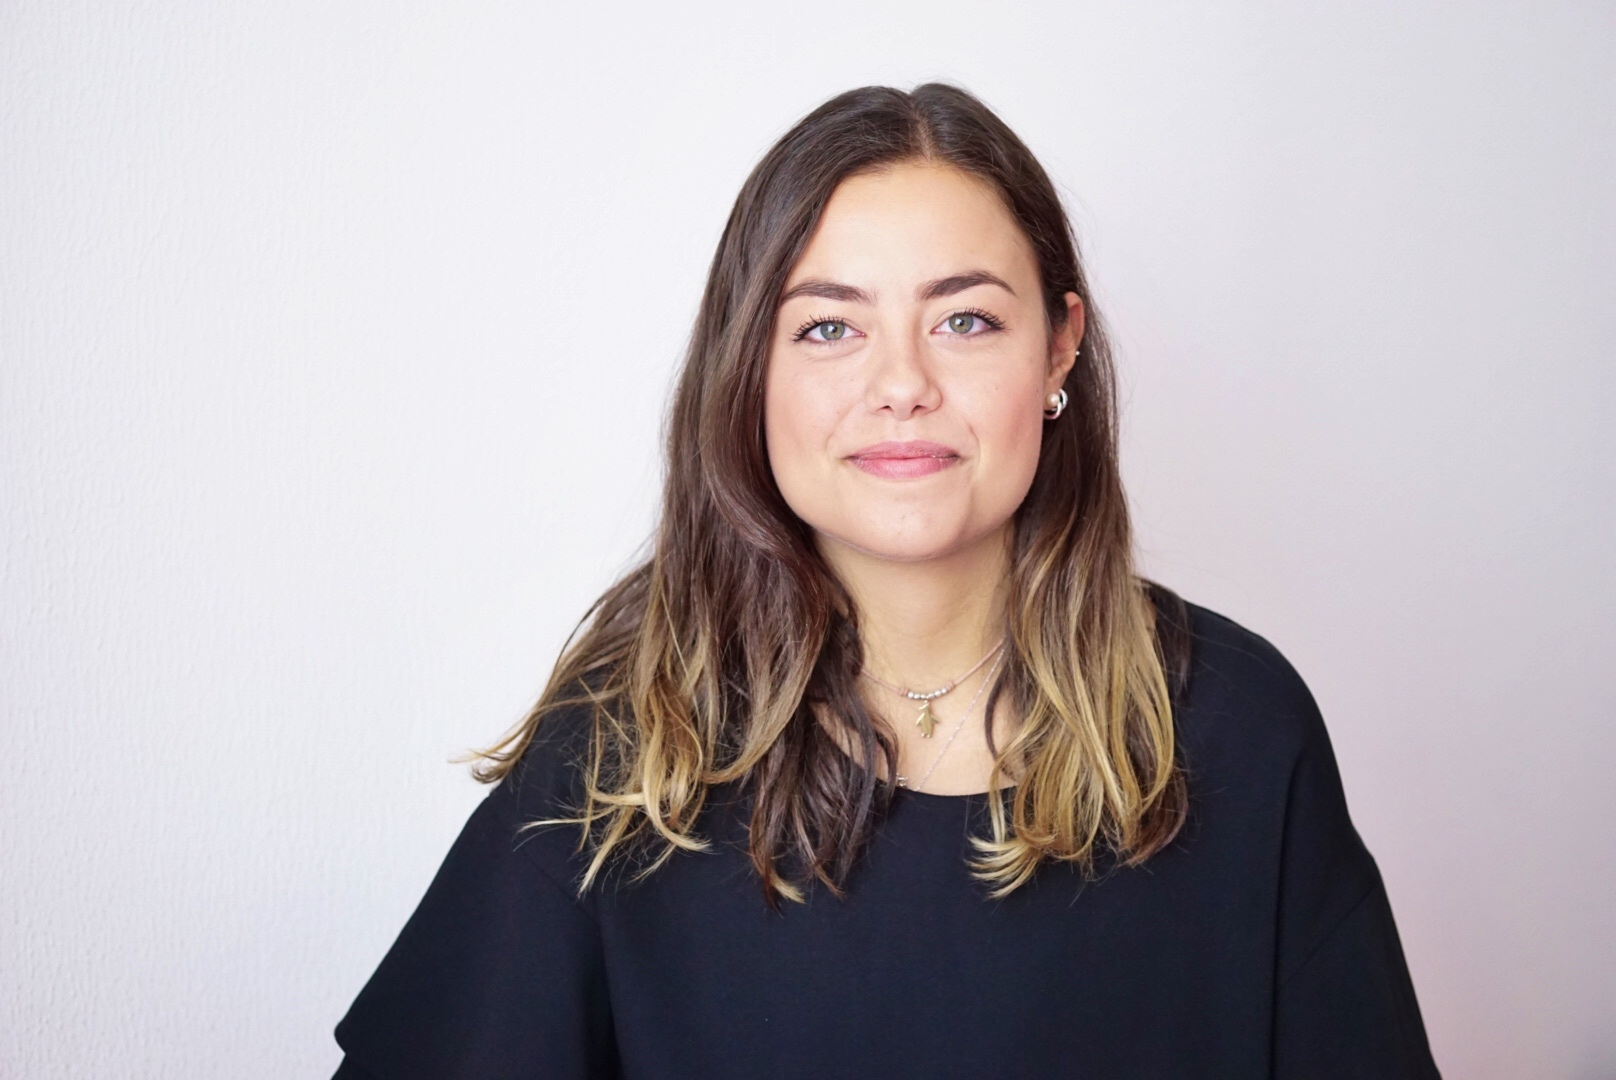
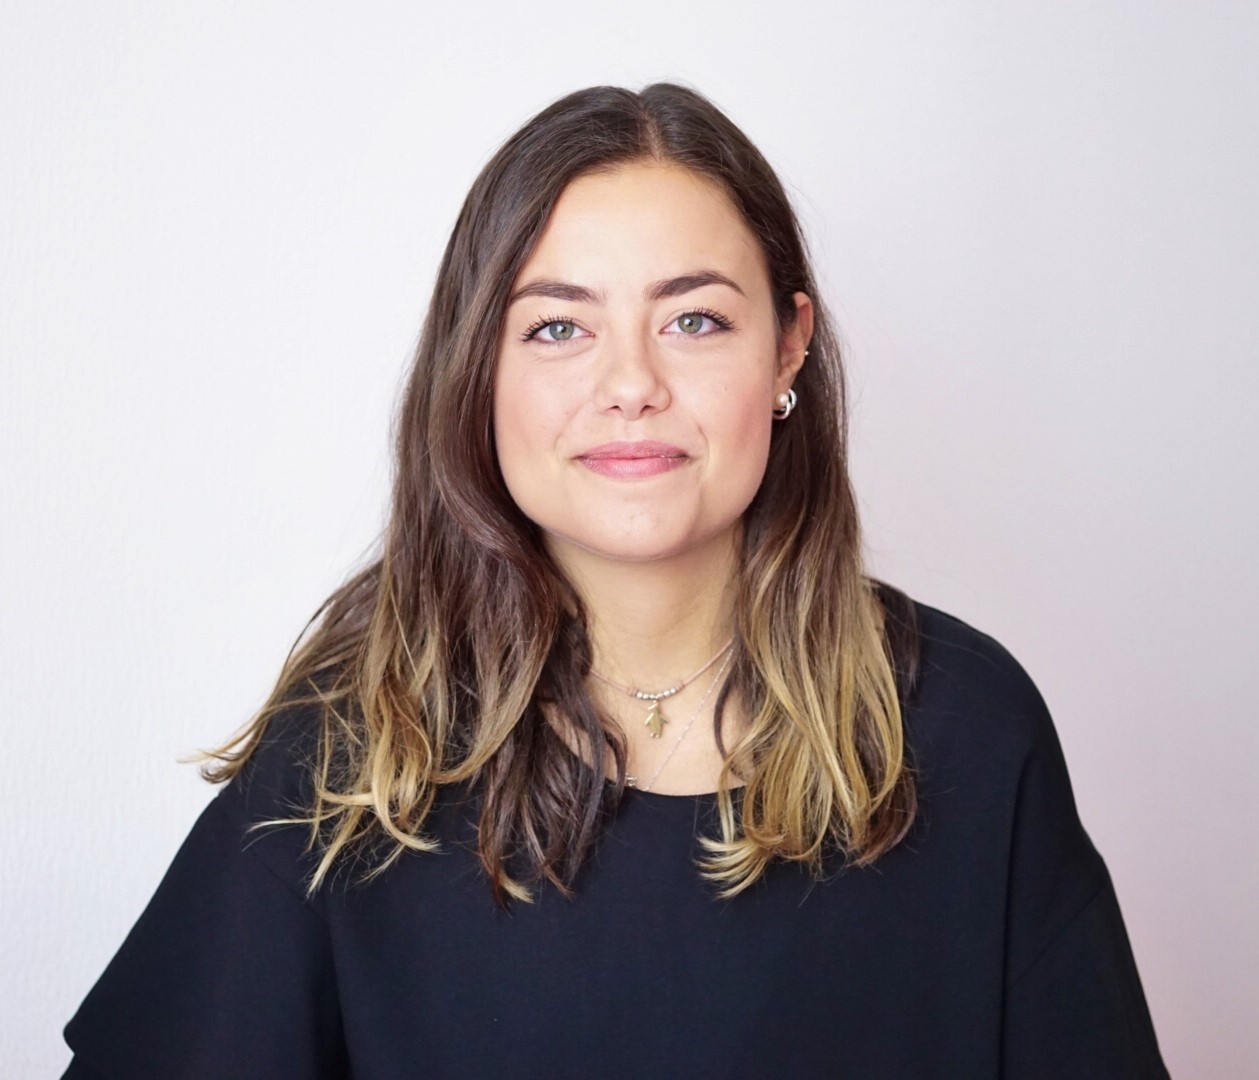
Adding resume and passions

diff --git a/about/styles.css b/about/styles.css
@@ -19,7 +19,7 @@
 body {
   font-family: "Handlee", cursive;
   background-color: #000000;
-  margin: 30;
+  margin: 0;
   text-align: left;
   padding: 10px;
 }
@@ -54,17 +54,31 @@ main {
   padding: 20px;
   color: #b4bec0;
   font-size: 20px;
+  margin-bottom: 20%;
+}
+
+a.button1{
+  text-decoration: none;
+}
+a.button1:visited {
+  color: inherit;
+}
+a.button2:visited {
+  color: inherit;
+}
+a.button2{
+  text-decoration: none;
 }
 
 footer {
   font-family: "Handlee", cursive;
   background-color: #000000;
   color: #b4bec0;
-  text-align: right;
-  padding: 0px;
+  text-align: center;
+  margin: 0;
   position: fixed;
   bottom: 0;
-  width: 95%;
+  width: 100%;
   font-size: 10px;
 }
 
@@ -73,10 +87,11 @@ footer {
   background-color: #000000;
   color: #b4bec0;
   text-align: right;
-  padding: 25px;
+  padding: 30px;
+  padding-left: 10px;
   position: fixed;
   bottom: 0;
-  width: 90%;
+  width: 95%;
   font-size: 10px;
 }
 
@@ -89,13 +104,96 @@ footer {
 
 .GitHub-icon{
   border: 1px solid #b4bec0;
-  border-radius: 3px;
+  border-radius: 23px;
   width: 30px;
 }
 
 .myphoto{
   border-radius: 3px;
-  width: 600px;
+  width: 400px;
   float: left; 
   margin-right: 10px;
 }
+
+.button1 {
+  font-family: "Handlee", cursive;
+  display: inline-block;
+  border-radius: 4px;
+  background-color: #b4bec0;
+  border: 2px solid #68adbb;
+  color: #000000;
+  text-align: center;
+  font-size: 15px;
+  padding: 5px;
+  width: 130px;
+  transition: all 0.5s;
+  cursor: pointer;
+  margin: 5px;
+}
+
+.button1 span {
+  cursor: pointer;
+  display: inline-block;
+  position: relative;
+  transition: 0.5s;
+}
+
+.button1 span:after {
+  content: '\00bb';
+  position: absolute;
+  opacity: 0;
+  top: 0;
+  right: -20px;
+  transition: 0.5s;
+}
+
+.button1:hover span {
+  padding-right: 25px;
+}
+
+.button1:hover span:after {
+  opacity: 1;
+  right: 0;
+}
+
+.button2 {
+  font-family: "Handlee", cursive;
+  display: inline-block;
+  border-radius: 4px;
+  background-color: #68adbb;
+  border: 2px solid #b4bec0;
+  color: #000000;
+  text-align: center;
+  font-size: 15px;
+  padding: 5px;
+  width: 130px;
+  transition: all 0.5s;
+  cursor: pointer;
+  margin: 5px;
+}
+
+.button2 span {
+  cursor: pointer;
+  display: inline-block;
+  position: relative;
+  transition: 0.5s;
+}
+
+.button2 span:after {
+  content: '\00bb';
+  position: absolute;
+  opacity: 0;
+  top: 0;
+  right: -20px;
+  transition: 0.5s;
+}
+
+.button2:hover span {
+  padding-right: 25px;
+}
+
+.button2:hover span:after {
+  opacity: 1;
+  right: 0;
+}
+

diff --git a/about/index.html b/about/index.html
@@ -21,9 +21,7 @@
     <main>
       <section>
         <h2>About Me</h2>
-        <a href="https://www.linkedin.com/in/margherita-lai-02518716b/" target="_blank">
-          <img class="myphoto" src="myphoto.jpg" alt="myphoto">
-        </a>
+        <img class="myphoto" src="myphoto.jpg" alt="myphoto">
         <p>Hi there! I am Margherita and I am a software developer. I chose Biomedical Engineering and Neuroengineering as my
             degree courses, because I've always been very interested in every aspect of the human brain. I'm fascinated by its incredible
             complexity. This course of study opened the doors to programming which I immediately fell in love with.
@@ -34,6 +32,17 @@
             tomorrow.
         </p>
       </section>
+      <button class="button1"><a href="https://drive.google.com/file/d/1WrcP1NzFXeVR26uamuvdwYwUDe8TWLBb/view?usp=sharing" target="_blank"><span>COMPLETE RESUMÈ</span></a></button>
+      <button class="button2"><a href="https://drive.google.com/file/d/1ixrTm4rlWRl6smY_YLZuD2peEUGQWFQ_/view?usp=drive_link" target="_blank"><span>SHORT RESUMÈ</span></a></button>
+      <h3><br>Passions</h3>
+      <p>Pass over each image to know more about my passions:
+      <p><img class="Basket" src="basketball-icon.png" alt="Basket">
+        <img class="Climbing" src="climbing-icon.png" alt="Climbing">
+        <img class="Photo" src="photography-icon.png" alt="Photo">
+        <img class="Paddle" src="paddle-icon.png" alt="Paddle">
+        <img class="Dog" src="dog-icon.png" alt="Dog">
+      </p>
+      </p>
     </main>
     <footer class="footer1"><p><a href="https://www.linkedin.com/in/margherita-lai-02518716b/" target="_blank">
       <img class="LinkedIn-icon" src="linkedin-icon.png" alt="LinkedIn-icon">

diff --git a/styles.css b/styles.css
@@ -56,29 +56,31 @@ main {
     font-size: 35px;
     text-align: right;
     position: static;
+    margin-bottom: 20%;
   }
   
 footer {
     font-family: "Handlee", cursive;
     background-color: #000000;
     color: #b4bec0;
-    text-align: right;
-    padding: 0px;
+    text-align: center;
+    margin: 0;
     position: fixed;
     bottom: 0;
-    width: 95%;
+    width: 100%;
     font-size: 10px;
   }
-
+  
 .footer1 {
     font-family: "Handlee", cursive;
     background-color: #000000;
     color: #b4bec0;
     text-align: right;
-    padding: 25px;
+    padding: 30px;
+    padding-left: 10px;
     position: fixed;
     bottom: 0;
-    width: 90%;
+    width: 95%;
     font-size: 10px;
   }
 
@@ -91,6 +93,6 @@ footer {
   
 .GitHub-icon{
     border: 1px solid #b4bec0;
-    border-radius: 3px;
+    border-radius: 23px;
     width: 30px;
   }

diff --git a/contacts/styles.css b/contacts/styles.css
@@ -54,17 +54,18 @@ main {
   padding: 20px;
   color: #b4bec0;
   font-size: 20px;
+  margin-bottom: 20%;
 }
 
 footer {
   font-family: "Handlee", cursive;
   background-color: #000000;
   color: #b4bec0;
-  text-align: right;
-  padding: 0px;
+  text-align: center;
+  margin: 0;
   position: fixed;
   bottom: 0;
-  width: 95%;
+  width: 100%;
   font-size: 10px;
 }
 
@@ -73,10 +74,11 @@ footer {
   background-color: #000000;
   color: #b4bec0;
   text-align: right;
-  padding: 25px;
+  padding: 30px;
+  padding-left: 10px;
   position: fixed;
   bottom: 0;
-  width: 90%;
+  width: 95%;
   font-size: 10px;
 }
 
@@ -89,6 +91,6 @@ footer {
 
 .GitHub-icon{
   border: 1px solid #b4bec0;
-  border-radius: 3px;
+  border-radius: 23px;
   width: 30px;
 }
